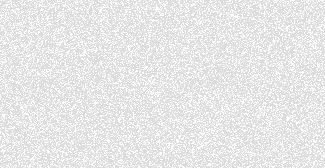
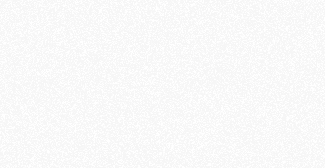
Added BackgroundPanel to Timeline to support dynamic tiled background images.

diff --git a/src/Timeline/Themes/Generic.xaml b/src/Timeline/Themes/Generic.xaml
@@ -1,7 +1,78 @@
 <ResourceDictionary xmlns="http://schemas.microsoft.com/winfx/2006/xaml/presentation"
-                    xmlns:x="http://schemas.microsoft.com/winfx/2006/xaml">   
-    <ResourceDictionary.MergedDictionaries>
-        <ResourceDictionary Source="pack://application:,,,/Timeline;component/Themes/Styles/TimelineStyle.xaml" />
-    </ResourceDictionary.MergedDictionaries>
-    <Style TargetType="{x:Type Rectangle}" />
+                    xmlns:x="http://schemas.microsoft.com/winfx/2006/xaml"
+                    xmlns:l="clr-namespace:NathanHarrenstein.Timeline">
+    <Style TargetType="{x:Type l:Timeline}">
+        <Setter Property="Template">
+            <Setter.Value>
+                <ControlTemplate TargetType="{x:Type l:Timeline}">
+                    <Border Background="{TemplateBinding Background}"
+                            BorderBrush="{TemplateBinding BorderBrush}"
+                            BorderThickness="{TemplateBinding BorderThickness}">
+                        <l:PanGrid x:Name="PART_PanGrid"
+                                   Background="Transparent"
+                                   FocusVisualStyle="{x:Null}">
+                            <Grid.RowDefinitions>
+                                <RowDefinition Height="Auto" />
+                                <RowDefinition Height="Auto" />
+                                <RowDefinition />
+                            </Grid.RowDefinitions>
+                            <l:BackgroundPanel BackgroundImage="{TemplateBinding BackgroundImage}" Grid.RowSpan="3" />
+                            <l:EraPanel Grid.Row="0"
+                                        Height="26"
+                                        Dates="{TemplateBinding Dates}"
+                                        EraTemplates="{TemplateBinding EraTemplates}"
+                                        Eras="{TemplateBinding Eras}"
+                                        IsHitTestVisible="False"
+                                        Resolution="{TemplateBinding Resolution}"
+                                        Ruler="{TemplateBinding Ruler}"
+                                        TextBlock.FontFamily="Cambria"
+                                        TextBlock.FontSize="14"
+                                        TextBlock.Foreground="Black" />
+
+                            <l:TimePanel Grid.Row="1"
+                                         Height="24"
+                                         Background="#33222222"
+                                         Dates="{TemplateBinding Dates}"
+                                         FontFamily="Calibri"
+                                         FontSize="12"
+                                         Foreground="{TemplateBinding TimeForeground}"
+                                         IsHitTestVisible="False"
+                                         Resolution="{TemplateBinding Resolution}"
+                                         Ruler="{TemplateBinding Ruler}"
+                                         Stroke="{TemplateBinding LineStroke}" />
+                            <l:GuidelinePanel Grid.Row="1"
+                                              Grid.RowSpan="2"
+                                              Dates="{TemplateBinding Dates}"
+                                              IsHitTestVisible="False"
+                                              MajorBrush="#FF393939"
+                                              MajorFrequency="10"
+                                              MinorBrush="#FF393939"
+                                              Resolution="{TemplateBinding Resolution}"
+                                              Ruler="{TemplateBinding Ruler}" />
+                            <l:EventPanel Grid.Row="2"
+                                          Dates="{TemplateBinding Dates}"
+                                          EventHeight="{TemplateBinding EventHeight}"
+                                          EventSpacing="{TemplateBinding EventSpacing}"
+                                          EventTemplates="{TemplateBinding EventTemplates}"
+                                          Events="{TemplateBinding Events}"
+                                          HorizontalOffset="{Binding HorizontalOffset,
+                                                                     RelativeSource={RelativeSource TemplatedParent},
+                                                                     Mode=TwoWay,
+                                                                     UpdateSourceTrigger=PropertyChanged}"
+                                          PreloadDistance="500"
+                                          Resolution="{TemplateBinding Resolution}"
+                                          Ruler="{TemplateBinding Ruler}"
+                                          TextBlock.FontFamily="Cambria"
+                                          TextBlock.FontSize="14"
+                                          TextBlock.Foreground="Black"
+                                          VerticalOffset="{Binding VerticalOffset,
+                                                                   RelativeSource={RelativeSource TemplatedParent},
+                                                                   Mode=TwoWay,
+                                                                   UpdateSourceTrigger=PropertyChanged}" />
+                        </l:PanGrid>
+                    </Border>
+                </ControlTemplate>
+            </Setter.Value>
+        </Setter>
+    </Style>
 </ResourceDictionary>

diff --git a/src/MusicTimeline/App.xaml b/src/MusicTimeline/App.xaml
@@ -4,11 +4,11 @@
              StartupUri="/Views/MainWindow.xaml">
     <Application.Resources>
         <SolidColorBrush x:Key="BackgroundBrush" Color="#FF42474B" />
-    <SolidColorBrush x:Key="ForegroundBrush" Color="#FFE4E8EC" />
-    <!--  Alternative Foreground: FFDFE0E6  -->
-    <SolidColorBrush x:Key="ScrollBarThumbBrush" Color="#FF4B5155" />
-    <SolidColorBrush x:Key="ScrollBarThumbHighlightBrush" Color="#FF565D61" />
-    <SolidColorBrush x:Key="ShellBrush" Color="#FF5F6266" />
+        <SolidColorBrush x:Key="ForegroundBrush" Color="#FFE4E8EC" />
+        <!--  Alternative Foreground: FFDFE0E6  -->
+        <SolidColorBrush x:Key="ScrollBarThumbBrush" Color="#FF4B5155" />
+        <SolidColorBrush x:Key="ScrollBarThumbHighlightBrush" Color="#FF565D61" />
+        <SolidColorBrush x:Key="ShellBrush" Color="#FF5F6266" />
         <BitmapImage x:Key="BackgroundImage" UriSource="pack://application:,,,/Resources/Background/NoiseOverlay.png" />
     </Application.Resources>
 </Application>

diff --git a/src/MusicTimeline/Views/TimelinePage.xaml b/src/MusicTimeline/Views/TimelinePage.xaml
@@ -64,15 +64,9 @@
             </MenuItem>
         </Menu>
         <t:Timeline Name="timeline"
+                    BackgroundImage="{StaticResource BackgroundImage}"
                     LineStroke="#FF333333"
                     TimeForeground="White">
-            <t:Timeline.Background>
-                <ImageBrush ImageSource="{StaticResource BackgroundImage}"
-                            Opacity="0.25"
-                            TileMode="Tile"
-                            Viewport="0, 0, 325, 168"
-                            ViewportUnits="Absolute" />
-            </t:Timeline.Background>
             <t:Timeline.EraTemplates>
                 <DataTemplate DataType="{x:Type vm:ComposerEraViewModel}">
                     <Grid Background="{Binding Background}" SnapsToDevicePixels="True">

diff --git a/src/MusicTimeline/Views/InputPage.xaml b/src/MusicTimeline/Views/InputPage.xaml
@@ -401,7 +401,6 @@
     <ScrollViewer HorizontalScrollBarVisibility="Auto">
         <ScrollViewer.Background>
             <ImageBrush ImageSource="{StaticResource BackgroundImage}"
-                            Opacity="0.25"
                             TileMode="Tile"
                             Viewport="0, 0, 325, 168"
                             ViewportUnits="Absolute" />

diff --git a/src/MusicTimeline/Views/ComposerPage.xaml b/src/MusicTimeline/Views/ComposerPage.xaml
@@ -41,7 +41,6 @@
     <Grid>
         <Grid.Background>
             <ImageBrush ImageSource="{StaticResource BackgroundImage}"
-                        Opacity="0.25"
                         TileMode="Tile"
                         Viewport="0, 0, 325, 168"
                         ViewportUnits="Absolute" />

diff --git a/src/Timeline/BackgroundPanel.cs b/src/Timeline/BackgroundPanel.cs
@@ -1,0 +1,83 @@
+using System;
+using System.EDTF;
+using System.Windows;
+using System.Windows.Controls;
+using System.Windows.Media;
+using System.Windows.Media.Imaging;
+
+namespace NathanHarrenstein.Timeline
+{
+    public class BackgroundPanel : Grid, IPan
+    {
+        public static readonly DependencyProperty BackgroundImageProperty = DependencyProperty.Register("BackgroundImage", typeof(ImageSource), typeof(BackgroundPanel), new PropertyMetadata(new PropertyChangedCallback(BackgroundImage_PropertyChanged)));
+        public static readonly DependencyProperty DatesProperty = DependencyProperty.Register("Dates", typeof(ExtendedDateTimeInterval), typeof(BackgroundPanel));
+        private ImageBrush _backgroundImageBrush;
+        private double _horizontalOffset;
+
+        private double _verticalOffset;
+
+        public ImageSource BackgroundImage
+        {
+            get
+            {
+                return (ImageSource)GetValue(BackgroundImageProperty);
+            }
+
+            set
+            {
+                SetValue(BackgroundImageProperty, value);
+            }
+        }
+
+        public ExtendedDateTimeInterval Dates
+        {
+            get
+            {
+                return (ExtendedDateTimeInterval)GetValue(DatesProperty);
+            }
+
+            set
+            {
+                SetValue(DatesProperty, value);
+            }
+        }
+
+        public Vector CoercePan(Vector delta)
+        {
+            return delta;
+        }
+
+        public void Pan(Vector delta)
+        {
+            _horizontalOffset += delta.X;
+            _verticalOffset += delta.Y;
+
+            UpdateBackgroundImageBrush();
+        }
+
+        private static void BackgroundImage_PropertyChanged(DependencyObject d, DependencyPropertyChangedEventArgs e)
+        {
+            ((BackgroundPanel)d).CreateImageBrush();
+        }
+
+        private void CreateImageBrush()
+        {
+            _backgroundImageBrush = new ImageBrush();
+            _backgroundImageBrush.ImageSource = BackgroundImage;
+            _backgroundImageBrush.TileMode = TileMode.Tile;
+            _backgroundImageBrush.ViewportUnits = BrushMappingMode.Absolute;
+
+            UpdateBackgroundImageBrush();
+
+            Background = _backgroundImageBrush;
+        }
+
+        private void UpdateBackgroundImageBrush()
+        {
+            var x = -(_horizontalOffset % BackgroundImage.Width);
+            var y = -(_verticalOffset % BackgroundImage.Height);
+
+            _backgroundImageBrush.Viewport = new Rect(x, y, BackgroundImage.Width, BackgroundImage.Height);
+        }
+    }
+}

diff --git a/src/Timeline/Timeline.cs b/src/Timeline/Timeline.cs
@@ -1,4 +1,5 @@
-using System.Collections;
+using System;
+using System.Collections;
 using System.Collections.Generic;
 using System.EDTF;
 using System.Windows;
@@ -9,6 +10,7 @@ namespace NathanHarrenstein.Timeline
 {
     public class Timeline : Control
     {
+        public static readonly DependencyProperty BackgroundImageProperty = DependencyProperty.Register("BackgroundImage", typeof(ImageSource), typeof(Timeline));
         public static readonly DependencyProperty DatesProperty = DependencyProperty.Register("Dates", typeof(ExtendedDateTimeInterval), typeof(Timeline));
         public static readonly DependencyProperty ErasProperty = DependencyProperty.Register("Eras", typeof(IList), typeof(Timeline));
         public static readonly DependencyProperty EraTemplatesProperty = DependencyProperty.Register("EraTemplates", typeof(IList), typeof(Timeline));
@@ -34,6 +36,19 @@ namespace NathanHarrenstein.Timeline
             Events = new List<ITimelineEvent>();
             EventTemplates = new List<DataTemplate>();
             EraTemplates = new List<DataTemplate>();
+        }
+
+        public ImageSource BackgroundImage
+        {
+            get
+            {
+                return (ImageSource)GetValue(BackgroundImageProperty);
+            }
+
+            set
+            {
+                SetValue(BackgroundImageProperty, value);
+            }
         }
 
         public ExtendedDateTimeInterval Dates

diff --git a/src/MusicTimeline/Views/ComposerPage.xaml.cs b/src/MusicTimeline/Views/ComposerPage.xaml.cs
@@ -197,7 +197,7 @@ namespace NathanHarrenstein.MusicTimeline.Views
             TreeView.Children = composer.CompositionCollections
                 .Select<CompositionCollection, Controls.TreeViewItem>(cc => CompositionCollectionTreeViewItemBuilder.Build(cc, null))
                 .Concat(composer.Compositions
-                    .Select(c => CompositionTreeViewItemBuilder.Build(c, null)))
+                    .Select(c => CompositionTreeViewItemBuilder.GetCompositionTreeViewItem(c, null)))
                 .OrderBy(tvi => tvi.Header);
             ComposerImagesListBox.SelectedIndex = 0;
 

diff --git a/src/MusicTimeline/Builders/CompositionTreeViewItemBuilder.cs b/src/MusicTimeline/Builders/CompositionTreeViewItemBuilder.cs
@@ -7,7 +7,7 @@ namespace NathanHarrenstein.MusicTimeline.Builders
 {
     public static class CompositionTreeViewItemBuilder
     {
-        public static CompositionTreeViewItem Build(Composition composition, TreeViewItemBase parent)
+        public static CompositionTreeViewItem GetCompositionTreeViewItem(Composition composition, TreeViewItemBase parent)
         {
             var compositionTreeViewItem = new CompositionTreeViewItem();
 

diff --git a/src/MusicTimeline/Controls/CompositionCollectionTreeViewItem.cs b/src/MusicTimeline/Controls/CompositionCollectionTreeViewItem.cs
@@ -25,7 +25,7 @@ namespace NathanHarrenstein.MusicTimeline.Controls
         {
             Children = CompositionCollection.Compositions
                 .OrderBy(c => c.Name)
-                .Select(c => CompositionTreeViewItemBuilder.Build(c, this));
+                .Select(c => CompositionTreeViewItemBuilder.GetCompositionTreeViewItem(c, this));
         }
 
         protected override void UnloadChildren()
